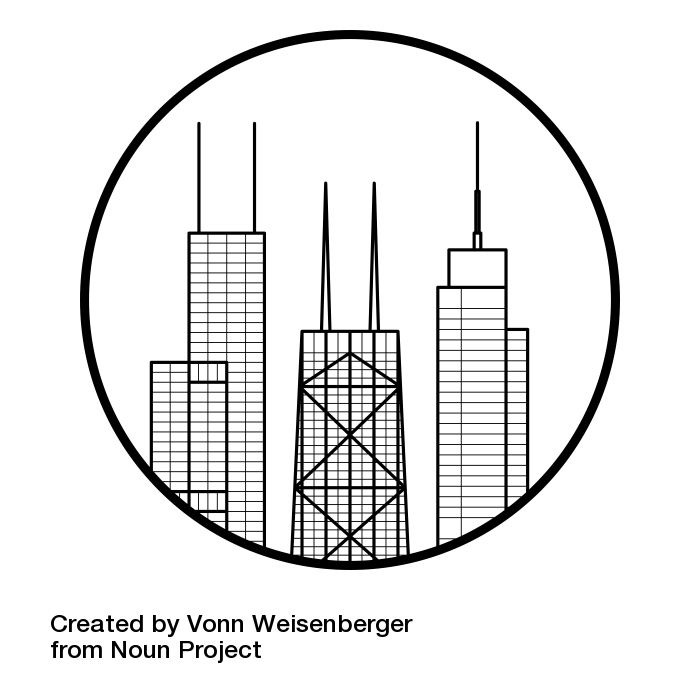
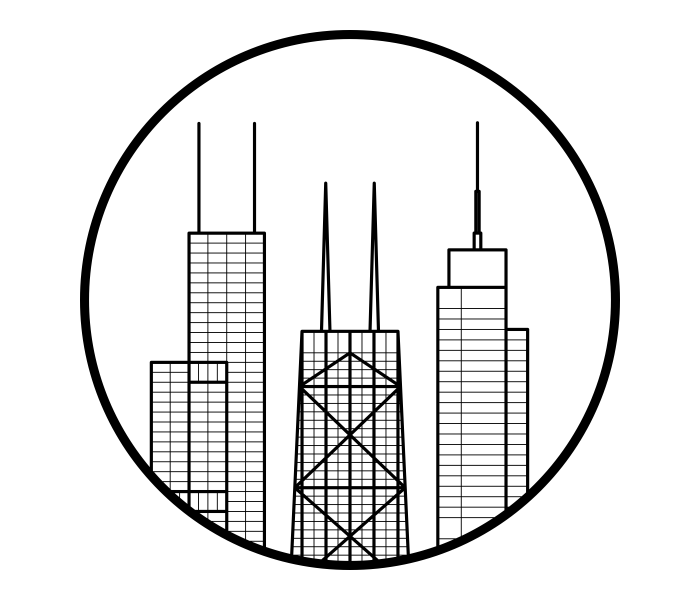
fixups here and there

diff --git a/data/index.htm b/data/index.htm
@@ -4,7 +4,7 @@
   <meta charset="utf-8" />
   <meta http-equiv="X-UA-Compatible" content="IE=edge" />
   <meta name="viewport" content="width=device-width, initial-scale=1" />
-  <title>ESP32 FastLED Web Server by Evil Genius Labs</title>
+  <title>Old Style Server</title>
 
   <!-- request CSS from internet CDN -->
   <link rel="stylesheet" href="https://maxcdn.bootstrapcdn.com/bootstrap/3.3.7/css/bootstrap.min.css" integrity="sha384-BVYiiSIFeK1dGmJRAkycuHAHRg32OmUcww7on3RYdg4Va+PmSTsz/K68vbdEjh4u" crossorigin="anonymous" />
@@ -16,7 +16,7 @@
 
   <!-- <link rel="stylesheet" href="/css/styles.css" /> -->
 
-  <link rel="icon" href="images/atom196.png" />
+  <link rel="icon" href="images/chicago.png" />
 </head>
 
 <body style="padding-bottom: 70px;">
@@ -82,6 +82,16 @@
         <div class="btn-group" role="group">
           <button type="button" class="btn btn-default" id="btnOn">On</button>
           <button type="button" class="btn btn-default" id="btnOff">Off</button>
+        </div>
+      </div>
+    </div>
+
+    <div id="booleanTemplateMotor" class="form-group">
+      <label class="col-sm-2 control-label"></label>
+      <div class="col-sm-10">
+        <div class="btn-group" role="group">
+          <button type="button" class="btn btn-default" id="motorOn">On</button>
+          <button type="button" class="btn btn-default" id="motorOff">Off</button>
         </div>
       </div>
     </div>

diff --git a/data/js/app.js b/data/js/app.js
@@ -140,6 +140,38 @@ function addBooleanField(field) {
   $("#form").append(template);
 }
 
+function addBooleanFieldMotor(field) {
+  var template = $("#booleanTemplateMotor").clone();
+
+  template.attr("id", "form-group-" + field.name);
+  template.attr("data-field-type", field.type);
+
+  var label = template.find(".control-label");
+  label.attr("for", "btn-group-" + field.name);
+  label.text(field.label);
+
+  var btngroup = template.find(".btn-group");
+  btngroup.attr("id", "btn-group-" + field.name);
+
+  var btnOn = template.find("#motorOn");
+  var btnOff = template.find("#motorff");
+
+  btnOn.attr("id", "motorOn" + field.name);
+  btnOff.attr("id", "motorOff" + field.name);
+
+  btnOn.attr("class", field.value ? "btn btn-primary" : "btn btn-default");
+  btnOff.attr("class", !field.value ? "btn btn-primary" : "btn btn-default");
+
+  btnOn.click(function() {
+    setBooleanFieldValue(field, btnOn, btnOff, 1)
+  });
+  btnOff.click(function() {
+    setBooleanFieldValue(field, btnOn, btnOff, 0)
+  });
+
+  $("#form").append(template);
+}
+
 function addSelectField(field) {
   var template = $("#selectTemplate").clone();
 

diff --git a/web.h b/web.h
@@ -26,37 +26,23 @@
   // hack for all the various functions
 
 
-void sendString(String value)
-{
+void sendString(String value) {
   webServer.send(200, "text/plain", value);
 }
 
-void broadcastInt(String name, uint8_t value)
-{
+void broadcastInt(String name, uint8_t value) {
   String json = "{\"name\":\"" + name + "\",\"value\":" + String(value) + "}";
   //  webSocketsServer.broadcastTXT(json);
 }
 
-void broadcastString(String name, String value)
-{
+void broadcastString(String name, String value) {
   String json = "{\"name\":\"" + name + "\",\"value\":\"" + String(value) + "\"}";
   //  webSocketsServer.broadcastTXT(json);
 }
 
 
 
-void setPower(uint8_t value)
-{
-  power = value == 0 ? 0 : 1;
-
-  EEPROM.write(5, power);
-  EEPROM.commit();
-
-  broadcastInt("power", power);
-
-}
-void sendInt(uint8_t value)
-{
+void sendInt(uint8_t value) {
   sendString(String(value));
 }
 
@@ -81,20 +67,32 @@ void setupWeb() {
   webServer.on("/fieldValue", HTTP_POST, []() {
     digitalWrite(led, 0);
     String name = webServer.arg("name");
+    Serial.println(name);
     String value = webServer.arg("value");
+    Serial.println(value);
     String newValue = setFieldValue(name, value, fields, fieldCount);
     webServer.send(200, "text/json", newValue);
     digitalWrite(led, 1);
   });
 
+  /**
    webServer.on("/power", HTTP_POST, []() {
     String value = webServer.arg("value");
     setPower(value.toInt());
-    webServer.sendHeader("Access-Control-Allow-Origin", "*");
+    webServer.send(200, "text/json", value);
     sendInt(power);
   });
 
+   webServer.on("/motorpower", HTTP_POST, []() {
+    String value = webServer.arg("value");
+    setMotorPower(value.toInt());
+    webServer.send(200, "text/json", value);
+    sendInt(motorPower);
+  });
+
+
   
+
 
  
   webServer.on("/solidColor", HTTP_POST, []() {
@@ -103,8 +101,10 @@ void setupWeb() {
     String b = webServer.arg("b");
     setSolidColor(r.toInt(), g.toInt(), b.toInt());
     sendString(String(solidColor.r) + "," + String(solidColor.g) + "," + String(solidColor.b));
-    webServer.sendHeader("Access-Control-Allow-Origin", "*");
+    String value = String(solidColor.r) + "," + String(solidColor.g) + "," + String(solidColor.b);
+    webServer.send(200, "text/json",value);
   });
+    **/
 
 
 

diff --git a/wifi.h b/wifi.h
@@ -22,7 +22,7 @@
    along with this program.  If not, see <http://www.gnu.org/licenses/>.
 */
 
-//#define HOSTNAME "ESP32-" ///< Hostname. The setup function adds the Chip ID at the end.
+#define HOSTNAME "oldstyle" ///< Hostname. The setup function adds the Chip ID at the end.
 
 //const bool apMode = false;
 
@@ -31,21 +31,21 @@
 
 void setupWifi() {
   //  // Set Hostname.
-  //  String hostname(HOSTNAME);
+      String hostname(HOSTNAME);
   //
-  //  uint64_t chipid = ESP.getEfuseMac();
-  //  uint16_t long1 = (unsigned long)((chipid & 0xFFFF0000) >> 16 );
-  //  uint16_t long2 = (unsigned long)((chipid & 0x0000FFFF));
-  //  String hex = String(long1, HEX) + String(long2, HEX); // six octets
-  //  hostname += hex;
+   uint64_t chipid = ESP.getEfuseMac();
+   uint16_t long1 = (unsigned long)((chipid & 0xFFFF0000) >> 16 );
+   uint16_t long2 = (unsigned long)((chipid & 0x0000FFFF));
+   String hex = String(long1, HEX) + String(long2, HEX); // six octets
+    hostname += hex;
   //
-  //  char hostnameChar[hostname.length() + 1];
-  //  memset(hostnameChar, 0, hostname.length() + 1);
+    char hostnameChar[hostname.length() + 1];
+   memset(hostnameChar, 0, hostname.length() + 1);
   //
-  //  for (uint8_t i = 0; i < hostname.length(); i++)
-  //    hostnameChar[i] = hostname.charAt(i);
+    for (uint8_t i = 0; i < hostname.length(); i++)
+      hostnameChar[i] = hostname.charAt(i);
   //
-  //  WiFi.setHostname(hostnameChar);
+   WiFi.setHostname(hostnameChar);
   //
   //  // Print hostname.
   //  Serial.println("Hostname: " + hostname);

diff --git a/fields.h b/fields.h
@@ -32,6 +32,18 @@ String setPower(String value) {
   return String(power);
 }
 
+String getMotorPower() {
+  return String(power);
+}
+
+String setMotorPower(String value) {
+  power = value.toInt();
+  power = power == 0 ? 0 : 1;
+  return String(power);
+}
+
+
+
 String getBrightness() {
   return String(brightness);
 }
@@ -244,6 +256,7 @@ String setTwinkleDensity(String value) {
 FieldList fields = {
   // name                 label                type               min,          max,  getValue,            getOptions,   setValue
   { "power",              "Power",             BooleanFieldType,    0,            1,  getPower,            NULL,         setPower            },
+  { "motorpower",         "Motor Power",       BooleanFieldType,    0,            1,  getMotorPower,       NULL,         setMotorPower       },
   { "brightness",         "Brightness",        NumberFieldType,     1,          255,  getBrightness,       NULL,         setBrightness       },
   { "speed",              "Speed",             NumberFieldType,     1,          255,  getSpeed,            NULL,         setSpeed            },
   

diff --git a/field.h b/field.h
@@ -79,6 +79,7 @@ CRGB parseColor(String value) {
 }
 
 void writeFieldsToEEPROM(FieldList fields, uint8_t count) {
+
   uint8_t index = 0;
 
   EEPROM.write(index, 0);
@@ -108,6 +109,9 @@ String setFieldValue(String name, String value, FieldList fields, uint8_t count)
   String result;
 
   Field field = getField(name, fields, count);
+  Serial.println("set field: " + name + " to: " + value);
+  //Serial.println("fields list: " + fields[0]);
+  Serial.println("fields count: " + count);
   if (field.setValue) {
     if (field.type == ColorFieldType) {
       String r = webServer.arg("r");
